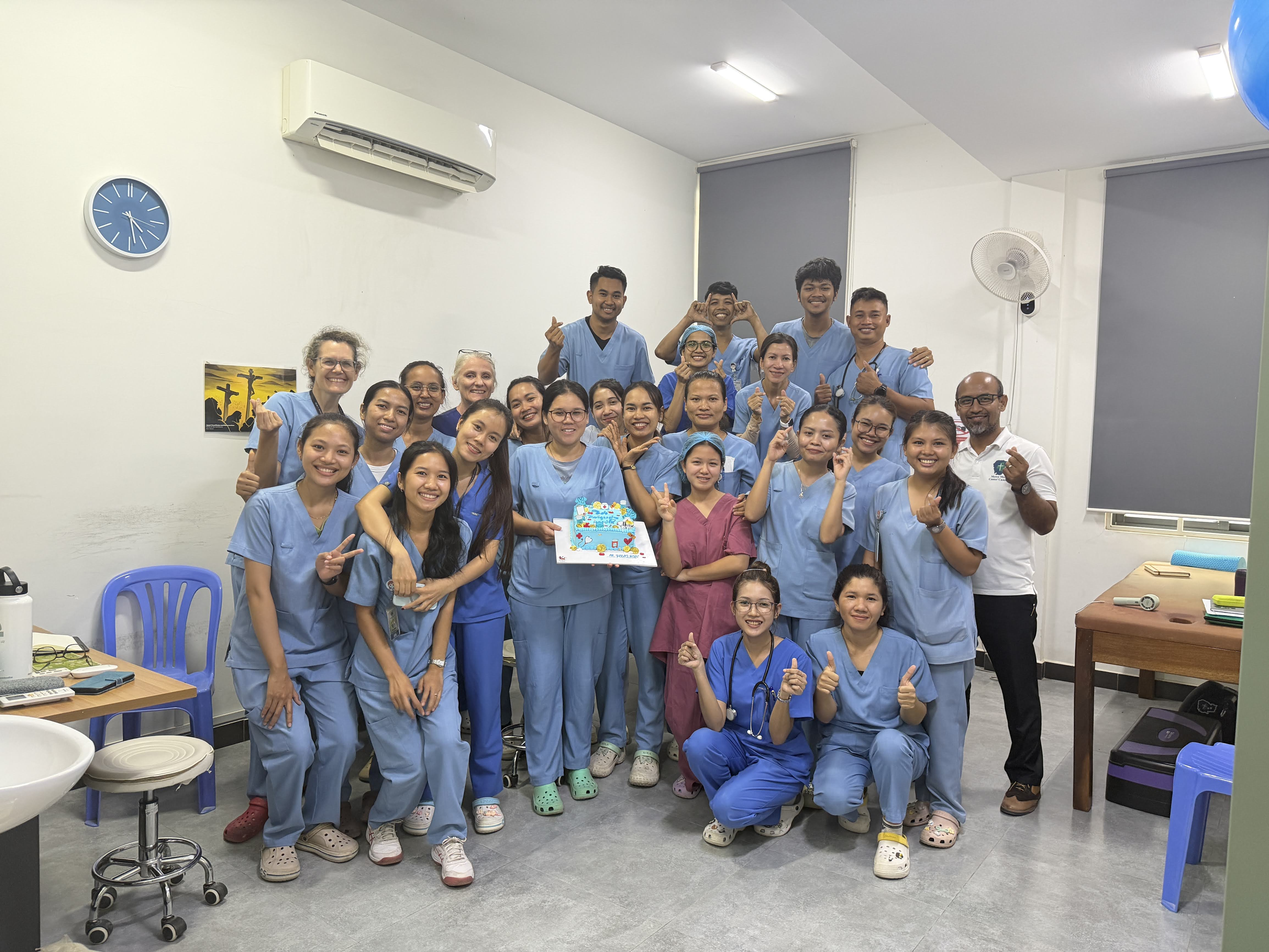
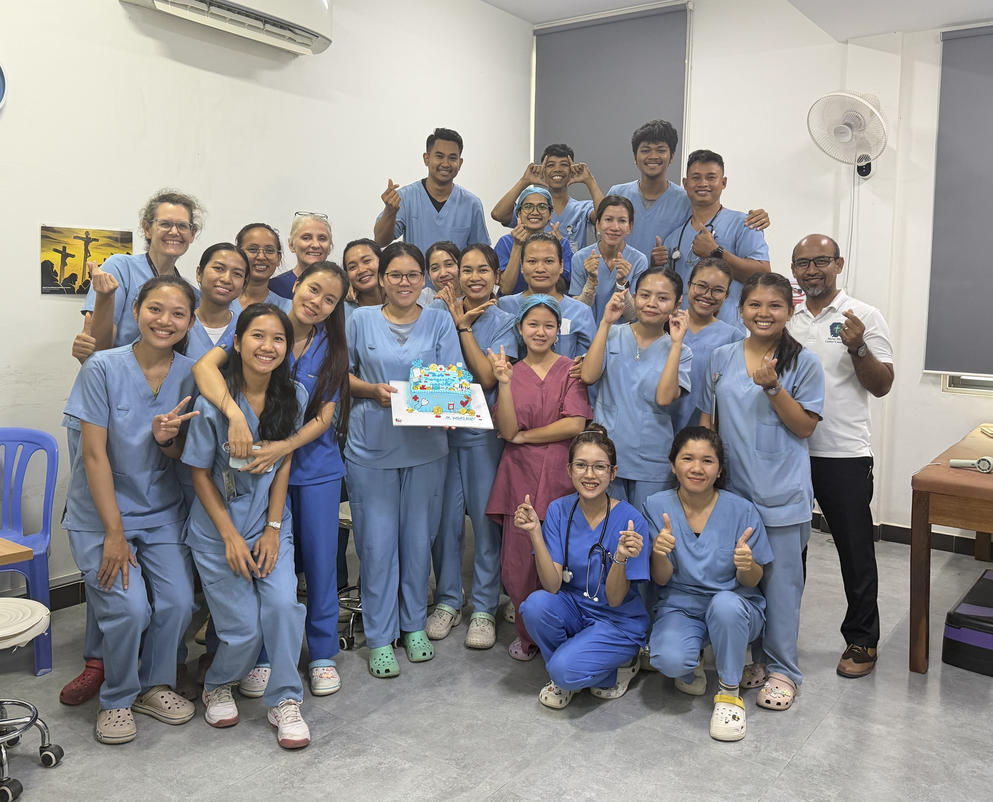
Change thumbnail size

diff --git a/_posts/2026-05-26-A-year-of-changes.md b/_posts/2026-05-26-A-year-of-changes.md
@@ -6,15 +6,15 @@ tags: [mmc]
 
 folder: 2026-05/
 images: 
-  - thump: dummy-thump.jpg
-    img: dummy.jpg
+  - thumbnail: dummy-320x320.jpeg
+    photo: dummy.jpg
     cap: "Practicing with dummy"
 images2:
-  - thump: gratuation-thump.jpeg
-    img: gratuation.jpeg
+  - thumbnail: gratuation-320x320.jpeg
+    photo: gratuation.jpeg
     cap: "Gratuation photo"
-  - thump: gratuation2-thump.jpeg
-    img: gratuation2.jpeg
+  - thumbnail: gratuation2-320x320.jpeg
+    photo: gratuation2.jpeg
     cap: "Gratuation photo #2"
 ---
 
